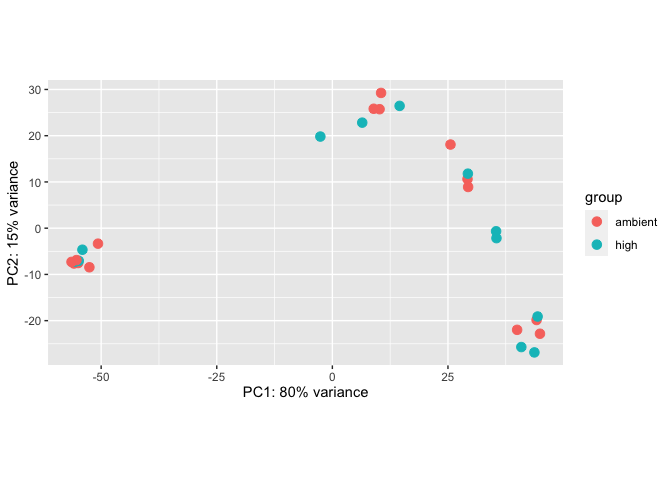
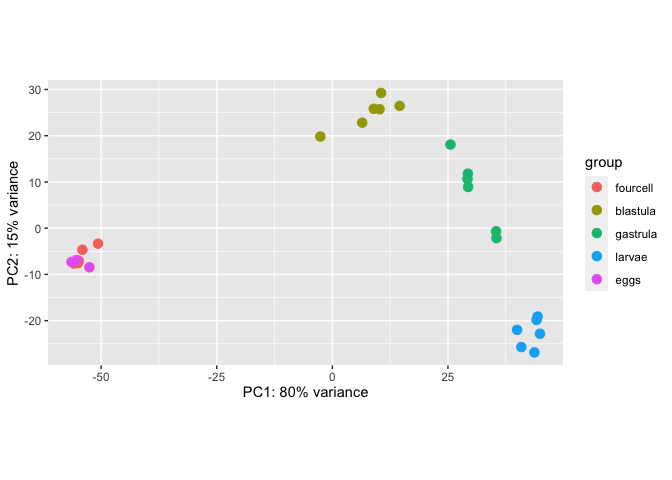
updatin gDE

diff --git a/EL-DESeq2/EL-DESeq2.md b/EL-DESeq2/EL-DESeq2.md
@@ -235,9 +235,9 @@ print(Sample_info)
 ```
 
     ##            Sample    Stage    Temp
-    ## 1  29_4cell_rep_1    4cell ambient
-    ## 2  29_4cell_rep_2    4cell ambient
-    ## 3  29_4cell_rep_3    4cell ambient
+    ## 1  29_4cell_rep_1 fourcell ambient
+    ## 2  29_4cell_rep_2 fourcell ambient
+    ## 3  29_4cell_rep_3 fourcell ambient
     ## 4  29_blast_rep_1 blastula ambient
     ## 5  29_blast_rep_2 blastula ambient
     ## 6  29_blast_rep_3 blastula ambient
@@ -247,9 +247,9 @@ print(Sample_info)
     ## 10  29_larv_rep_1   larvae ambient
     ## 11  29_larv_rep_2   larvae ambient
     ## 12  29_larv_rep_3   larvae ambient
-    ## 13 33_4cell_rep_1    4cell    high
-    ## 14 33_4cell_rep_2    4cell    high
-    ## 15 33_4cell_rep_3    4cell    high
+    ## 13 33_4cell_rep_1 fourcell    high
+    ## 14 33_4cell_rep_2 fourcell    high
+    ## 15 33_4cell_rep_3 fourcell    high
     ## 16 33_blast_rep_1 blastula    high
     ## 17 33_blast_rep_2 blastula    high
     ## 18 33_blast_rep_3 blastula    high
@@ -360,7 +360,7 @@ eggs are only in the ambient treatment
 
 ``` r
 # Set up for complete combinatorial design 
-Sample_info$Stage = factor(x = Sample_info$Stage,levels = c('4cell','blastula', "gastrula", "larvae", "eggs"))
+Sample_info$Stage = factor(x = Sample_info$Stage,levels = c('fourcell','blastula', "gastrula", "larvae", "eggs"))
 Sample_info$Temp = factor(x = Sample_info$Temp, levels = c("ambient", "high"))
 ddsTxi_Comb <- DESeqDataSetFromTximport(txi.rsem,
                                    colData = Sample_info,
@@ -419,46 +419,46 @@ dds <- DESeq(ddsTxi_Comb_filt)
 resultsNames(dds)
 ```
 
-    ## [1] "Intercept"                            
-    ## [2] "group_4cellhigh_vs_4cellambient"      
-    ## [3] "group_blastulaambient_vs_4cellambient"
-    ## [4] "group_blastulahigh_vs_4cellambient"   
-    ## [5] "group_eggsambient_vs_4cellambient"    
-    ## [6] "group_gastrulaambient_vs_4cellambient"
-    ## [7] "group_gastrulahigh_vs_4cellambient"   
-    ## [8] "group_larvaeambient_vs_4cellambient"  
-    ## [9] "group_larvaehigh_vs_4cellambient"
+    ## [1] "Intercept"                               
+    ## [2] "group_blastulahigh_vs_blastulaambient"   
+    ## [3] "group_eggsambient_vs_blastulaambient"    
+    ## [4] "group_fourcellambient_vs_blastulaambient"
+    ## [5] "group_fourcellhigh_vs_blastulaambient"   
+    ## [6] "group_gastrulaambient_vs_blastulaambient"
+    ## [7] "group_gastrulahigh_vs_blastulaambient"   
+    ## [8] "group_larvaeambient_vs_blastulaambient"  
+    ## [9] "group_larvaehigh_vs_blastulaambient"
 
 ``` r
 print(dds$group)
 ```
 
-    ##  [1] 4cellambient    4cellambient    4cellambient    blastulaambient
+    ##  [1] fourcellambient fourcellambient fourcellambient blastulaambient
     ##  [5] blastulaambient blastulaambient gastrulaambient gastrulaambient
     ##  [9] gastrulaambient larvaeambient   larvaeambient   larvaeambient  
-    ## [13] 4cellhigh       4cellhigh       4cellhigh       blastulahigh   
+    ## [13] fourcellhigh    fourcellhigh    fourcellhigh    blastulahigh   
     ## [17] blastulahigh    blastulahigh    gastrulahigh    gastrulahigh   
     ## [21] gastrulahigh    larvaehigh      larvaehigh      larvaehigh     
     ## [25] eggsambient     eggsambient     eggsambient    
-    ## 9 Levels: 4cellambient 4cellhigh blastulaambient blastulahigh ... larvaehigh
+    ## 9 Levels: blastulaambient blastulahigh eggsambient ... larvaehigh
 
 All possible results combinations?
 
 ``` r
 # had to use F for 4 if starting the name of results
-BA_4CA <- results(dds, alpha=0.05, contrast=c("group", "4cellambient", "blastulaambient"))
-GA_4CA <- results(dds, alpha=0.05, contrast=c("group", "4cellambient", "gastrulaambient"))
-LA_4CA <- results(dds, alpha=0.05, contrast=c("group", "4cellambient", "larvaeambient"))
-EA_4CA <- results(dds, alpha=0.05, contrast=c("group", "4cellambient", "eggsambient"))
-FCH_4CA <- results(dds, alpha=0.05, contrast=c("group", "4cellambient", "4cellhigh"))
-BH_4CA <- results(dds, alpha=0.05, contrast=c("group", "4cellambient", "blastulahigh"))
-GH_4CA <- results(dds, alpha=0.05, contrast=c("group", "4cellambient", "gastrulahigh"))
-LH_4CA <- results(dds, alpha=0.05, contrast=c("group", "4cellambient", "larvaehigh"))
+BA_4CA <- results(dds, alpha=0.05, contrast=c("group", "fourcellambient", "blastulaambient"))
+GA_4CA <- results(dds, alpha=0.05, contrast=c("group", "fourcellambient", "gastrulaambient"))
+LA_4CA <- results(dds, alpha=0.05, contrast=c("group", "fourcellambient", "larvaeambient"))
+EA_4CA <- results(dds, alpha=0.05, contrast=c("group", "fourcellambient", "eggsambient"))
+FCH_4CA <- results(dds, alpha=0.05, contrast=c("group", "fourcellambient", "fourcellhigh"))
+BH_4CA <- results(dds, alpha=0.05, contrast=c("group", "fourcellambient", "blastulahigh"))
+GH_4CA <- results(dds, alpha=0.05, contrast=c("group", "fourcellambient", "gastrulahigh"))
+LH_4CA <- results(dds, alpha=0.05, contrast=c("group", "fourcellambient", "larvaehigh"))
 
 GA_BA <- results(dds, alpha=0.05, contrast=c("group", "blastulaambient", "gastrulaambient"))
 LA_BA <- results(dds, alpha=0.05, contrast=c("group", "blastulaambient", "larvaeambient"))
 EA_BA <- results(dds, alpha=0.05, contrast=c("group", "blastulaambient", "eggsambient"))
-FCH_BA <- results(dds, alpha=0.05, contrast=c("group", "blastulaambient", "4cellhigh"))
+FCH_BA <- results(dds, alpha=0.05, contrast=c("group", "blastulaambient", "fourcellhigh"))
 BH_BA <- results(dds, alpha=0.05, contrast=c("group", "blastulaambient", "blastulahigh"))
 GH_BA <- results(dds, alpha=0.05, contrast=c("group", "blastulaambient", "gastrulahigh"))
 LH_BA <- results(dds, alpha=0.05, contrast=c("group", "blastulaambient", "larvaehigh"))
@@ -471,19 +471,19 @@ GH_GA <- results(dds, alpha=0.05, contrast=c("group", "gastrulaambient", "gastru
 LH_GA <- results(dds, alpha=0.05, contrast=c("group", "gastrulaambient", "larvaehigh"))
 
 EA_LA <- results(dds, alpha=0.05, contrast=c("group", "larvaeambient", "eggsambient"))
-FCH_LA <- results(dds, alpha=0.05, contrast=c("group", "larvaeambient", "4cellhigh"))
+FCH_LA <- results(dds, alpha=0.05, contrast=c("group", "larvaeambient", "fourcellhigh"))
 BH_LA <- results(dds, alpha=0.05, contrast=c("group", "larvaeambient", "blastulahigh"))
 GH_LA <- results(dds, alpha=0.05, contrast=c("group", "larvaeambient", "gastrulahigh"))
 LH_LA <- results(dds, alpha=0.05, contrast=c("group", "larvaeambient", "larvaehigh"))
 
-FCH_EA <- results(dds, alpha=0.05, contrast=c("group", "eggsambient", "4cellhigh"))
+FCH_EA <- results(dds, alpha=0.05, contrast=c("group", "eggsambient", "fourcellhigh"))
 BH_EA <- results(dds, alpha=0.05, contrast=c("group", "eggsambient", "blastulahigh"))
 GH_EA <- results(dds, alpha=0.05, contrast=c("group", "eggsambient", "gastrulahigh"))
 LH_EA <- results(dds, alpha=0.05, contrast=c("group", "eggsambient", "larvaehigh"))
 
-BH_4CH <- results(dds, alpha=0.05, contrast=c("group", "4cellhigh", "blastulahigh"))
-GH_4CH <- results(dds, alpha=0.05, contrast=c("group", "4cellhigh", "gastrulahigh"))
-LH_4CH <- results(dds, alpha=0.05, contrast=c("group", "4cellhigh", "larvaehigh"))
+BH_4CH <- results(dds, alpha=0.05, contrast=c("group", "fourcellhigh", "blastulahigh"))
+GH_4CH <- results(dds, alpha=0.05, contrast=c("group", "fourcellhigh", "gastrulahigh"))
+LH_4CH <- results(dds, alpha=0.05, contrast=c("group", "fourcellhigh", "larvaehigh"))
 
 GH_BH <- results(dds, alpha=0.05, contrast=c("group", "blastulahigh", "gastrulahigh"))
 LH_BH <- results(dds, alpha=0.05, contrast=c("group", "blastulahigh", "larvaehigh"))
@@ -595,18 +595,18 @@ dds_Stage <- DESeq(ddsTxi_Stage_filt)
 resultsNames(dds_Stage)
 ```
 
-    ## [1] "Intercept"               "Stage_blastula_vs_4cell"
-    ## [3] "Stage_gastrula_vs_4cell" "Stage_larvae_vs_4cell"  
-    ## [5] "Stage_eggs_vs_4cell"
+    ## [1] "Intercept"                  "Stage_blastula_vs_fourcell"
+    ## [3] "Stage_gastrula_vs_fourcell" "Stage_larvae_vs_fourcell"  
+    ## [5] "Stage_eggs_vs_fourcell"
 
 Get results for all stage
 comparisons
 
 ``` r
-Blastula_4cell <- results(dds_Stage, alpha=0.05, contrast=c("Stage", "blastula", "4cell"))
-Gastrula_4cell <- results(dds_Stage, alpha=0.05, contrast=c("Stage", "gastrula", "4cell"))
-Larvae_4cell <- results(dds_Stage, alpha=0.05, contrast=c("Stage", "larvae", "4cell"))
-Eggs_4cell <- results(dds_Stage, alpha=0.05, contrast=c("Stage", "eggs", "4cell"))
+Blastula_4cell <- results(dds_Stage, alpha=0.05, contrast=c("Stage", "blastula", "fourcell"))
+Gastrula_4cell <- results(dds_Stage, alpha=0.05, contrast=c("Stage", "gastrula", "fourcell"))
+Larvae_4cell <- results(dds_Stage, alpha=0.05, contrast=c("Stage", "larvae", "fourcell"))
+Eggs_4cell <- results(dds_Stage, alpha=0.05, contrast=c("Stage", "eggs", "fourcell"))
 
 Blastula_Eggs <- results(dds_Stage, alpha=0.05, contrast=c("Stage", "blastula", "eggs"))
 Gastrula_Eggs <- results(dds_Stage, alpha=0.05, contrast=c("Stage", "gastrula", "eggs"))
@@ -793,13 +793,13 @@ Exploritory Data Visualizations
 
 ``` r
 ddsvst <- vst(dds, blind = FALSE)
-plotPCA(ddsvst, intgroup=c("Temp"))
+plotPCA(ddsvst, intgroup=c("Stage"))
 ```
 
 ![](EL-DESeq2_files/figure-gfm/unnamed-chunk-19-1.png)<!-- -->
 
 ``` r
-plotPCA(ddsvst, intgroup=c("Stage"))
+plotPCA(ddsvst, intgroup=c("Temp"))
 ```
 
 ![](EL-DESeq2_files/figure-gfm/unnamed-chunk-19-2.png)<!-- -->
@@ -813,7 +813,7 @@ ggplot(pcaData, aes(PC1, PC2, color=Stage)) +
   geom_point(size=3) +
   coord_fixed() + ylab("PC2: 14% Variance Explained") +
   xlab("PC1: 80% Variance Explained") +
-  theme_linedraw() + scale_color_manual(values = c("4cell" = "#ED6A5A", "blastula" = "#0D5C63", "gastrula" = "#FED766", "larvae" = "#A03E99", "eggs" = "#9DD9D2"))
+  theme_linedraw() + scale_color_manual(values = c("fourcell" = "#ED6A5A", "blastula" = "#0D5C63", "gastrula" = "#FED766", "larvae" = "#A03E99", "eggs" = "#9DD9D2"))
 ```
 
 ![](EL-DESeq2_files/figure-gfm/unnamed-chunk-20-1.png)<!-- -->
@@ -823,7 +823,7 @@ Can I plot the 3rd and 4th PCs? Of all genes
 ``` r
 # different way of doing PCA
 mat <- assay(ddsvst)
-# need to transpose to tidy format
+# need to transpose to tidy format for this PCA format
 tmat <- as.data.frame(t(mat))
 PCEL <- prcomp(tmat)
 #loadings
@@ -873,12 +873,12 @@ head(PCEL$rotation)
     ## TRINITY_DN100034_c0_g1  0.003889526  0.014143975 -0.009085139 -0.008342496
     ## TRINITY_DN100035_c0_g1 -0.013784370 -0.010192648 -0.007168364  0.002357744
     ##                                 PC25          PC26        PC27
-    ## TRINITY_DN100003_c0_g1 -0.0137889593 -0.0029415012 -0.57244323
-    ## TRINITY_DN10000_c0_g1  -0.0066830562  0.0034816969 -0.17701726
-    ## TRINITY_DN100013_c0_g1 -0.0001200648  0.0138916037  0.21357655
-    ## TRINITY_DN100032_c0_g1 -0.0025474257  0.0019254282 -0.12104826
-    ## TRINITY_DN100034_c0_g1  0.0049340848  0.0099806777  0.15352575
-    ## TRINITY_DN100035_c0_g1 -0.0007973496  0.0001022854 -0.01611397
+    ## TRINITY_DN100003_c0_g1 -0.0137889593 -0.0029415012 -0.65387335
+    ## TRINITY_DN10000_c0_g1  -0.0066830562  0.0034816969 -0.12891151
+    ## TRINITY_DN100013_c0_g1 -0.0001200648  0.0138916037  0.19433490
+    ## TRINITY_DN100032_c0_g1 -0.0025474257  0.0019254282 -0.20238193
+    ## TRINITY_DN100034_c0_g1  0.0049340848  0.0099806777  0.10833319
+    ## TRINITY_DN100035_c0_g1 -0.0007973496  0.0001022854 -0.03575822
 
 ``` r
 # scores
@@ -921,12 +921,12 @@ head(PCEL$x)
     ## 29_blast_rep_2 -1.7631042  0.25308607 -0.1916629 -0.2858682 -0.00159132
     ## 29_blast_rep_3 -0.6264859  0.08034816 -0.6544807 -0.4997871  0.20622782
     ##                       PC26          PC27
-    ## 29_4cell_rep_1 -1.20729593 -2.969821e-13
-    ## 29_4cell_rep_2  4.08370298 -2.525688e-13
-    ## 29_4cell_rep_3 -0.24459149 -1.516495e-13
-    ## 29_blast_rep_1  0.18286852  8.031423e-14
-    ## 29_blast_rep_2 -0.09911158  2.559238e-14
-    ## 29_blast_rep_3 -0.06099759 -8.991852e-14
+    ## 29_4cell_rep_1 -1.20729593 -1.980148e-13
+    ## 29_4cell_rep_2  4.08370298 -1.674330e-13
+    ## 29_4cell_rep_3 -0.24459149 -1.634964e-13
+    ## 29_blast_rep_1  0.18286852  8.508689e-14
+    ## 29_blast_rep_2 -0.09911158  6.305091e-14
+    ## 29_blast_rep_3 -0.06099759 -1.626845e-13
 
 ``` r
 scores = as.data.frame(PCEL$x)
@@ -966,7 +966,7 @@ And it shows no differentiation in overall expression from egg to 4cell
 
 More specific PCAs using differentially expressed genes only.
 
-Ok does this happen for stage?
+Stage
 
 ``` r
 # first have to combine all the significant lists
@@ -986,3 +986,47 @@ plotPCA(stage_vst, intgroup=c("Stage"))
 ```
 
 ![](EL-DESeq2_files/figure-gfm/unnamed-chunk-23-1.png)<!-- -->
+
+Heat map of all genes
+
+``` r
+select <- order(rowMeans(counts(dds,normalized=TRUE)),
+                decreasing=TRUE)[1:20]
+df <- as.data.frame(colData(dds)[,c("Stage","Temp")])
+pheatmap(assay(ddsvst)[select,], cluster_rows=TRUE, show_rownames=FALSE,
+         cluster_cols=TRUE, annotation_col=df)
+```
+
+![](EL-DESeq2_files/figure-gfm/unnamed-chunk-24-1.png)<!-- -->
+
+``` r
+# sig.num <- sum(combine$padj <0.1, na.rm=T) 
+# topVarGenes <- head(order(rowVars(assay(combine_rlog)),decreasing=TRUE),sig.num) #sort by decreasing sig
+# mat <- assay(combine_rlog)[ topVarGenes, ] #make an expression object
+
+# mat <- mat - rowMeans(mat) #difference in expression compared to average across all samples
+# col.order <- c("29_4cell_rep_1", "29_4cell_rep_2", "29_4cell_rep_3", "29_blast_rep_1", "29_blast_rep_2", "29_blast_rep_3", "29_gast_rep_1", "29_gast_rep_2", "29_gast_rep_3", "29_larv_rep_1", "29_larv_rep_2", "29_larv_rep_3", "33_4cell_rep_1", "33_4cell_rep_2", "33_4cell_rep_3", "33_blast_rep_1", "33_blast_rep_2", "33_blast_rep_3", "33_gast_rep_1", "33_gast_rep_2", "33_gast_rep_3", "33_larv_rep_1", "33_larv_rep_2", "33_larv_rep_3", "eggs_rep_1", "eggs_rep_2", "eggs_rep_3")
+# mat <- mat[,col.order]
+# df1 <- as.data.frame(colData(combine_rlog)[c("effluent", "pCO2")]) #make dataframe for column naming 
+
+
+select <- order(rowMeans(counts(dds,normalized=TRUE)),
+                decreasing=TRUE)[1:100]
+
+matri <- assay(ddsvst)[select,]
+col.order <- c("29_4cell_rep_1", "29_4cell_rep_2", "29_4cell_rep_3", "29_blast_rep_1", "29_blast_rep_2", "29_blast_rep_3", "29_gast_rep_1", "29_gast_rep_2", "29_gast_rep_3", "29_larv_rep_1", "29_larv_rep_2", "29_larv_rep_3", "33_4cell_rep_1", "33_4cell_rep_2", "33_4cell_rep_3", "33_blast_rep_1", "33_blast_rep_2", "33_blast_rep_3", "33_gast_rep_1", "33_gast_rep_2", "33_gast_rep_3", "33_larv_rep_1", "33_larv_rep_2", "33_larv_rep_3", "eggs_rep_1", "eggs_rep_2", "eggs_rep_3")
+matri <- matri[,col.order]
+
+
+
+df <- as.data.frame(colData(dds)[,c("Stage","Temp")])
+
+colfunc <- colorRampPalette(c("slateblue3", "white", "darkred")) #make function for the color gradient 
+ann_colors <- list(Temp = c(ambient="skyblue1", high="tomato3"), Stage = c(fourcell= "#ED6A5A", blastula="#0D5C63",gastrula= "#FED766",larvae= "#A03E99",eggs= "#9DD9D2"))
+# breakss <- c(-2, -1.9, -1.8, -1.7, -1.6, -1.5, -1.4, -1.3, -1.2, -1.1, -1, -.9, -.8, -.7, -.6, -.5, -.4, -.3, -.2, -.1, 0, .1, .2, .3, .4, .5, .6, .7, .8, .9, 1, 1.1, 1.2, 1.3, 1.4, 1.5, 1.6, 1.7, 1.8, 1.9, 2) 
+pheatmap(matri, annotation_col=df, clustering_method = "average", 
+         clustering_distance_rows="euclidean", show_rownames =FALSE, cluster_cols=TRUE,
+         show_colnames =F, annotation_colors=ann_colors, color = colfunc(50))
+```
+
+![](EL-DESeq2_files/figure-gfm/unnamed-chunk-25-1.png)<!-- -->
